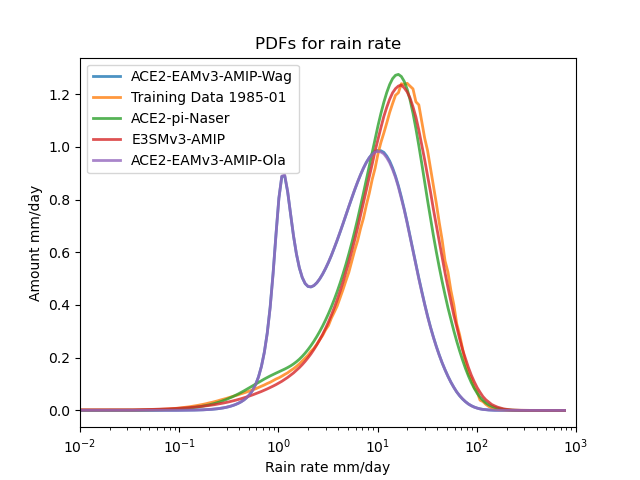
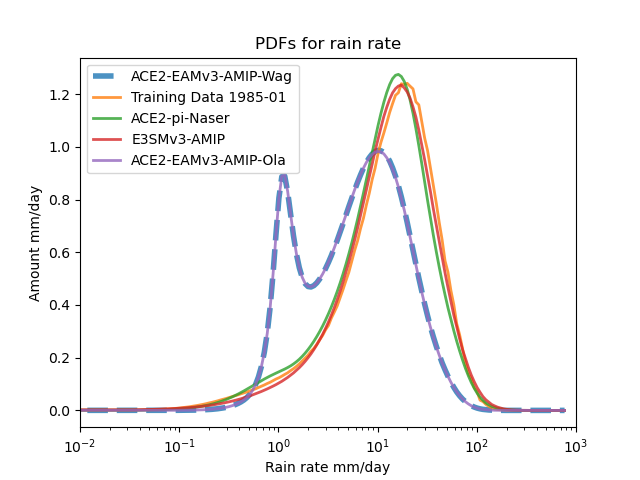
clean up rainrate pdf

diff --git a/rainrate_amount_calculator/plot_rainrate.py b/rainrate_amount_calculator/plot_rainrate.py
@@ -3,6 +3,7 @@ import numpy as np
 import matplotlib.pyplot as plt
 import cartopy.crs as ccrs
 import cartopy.feature as cfeature
+import pdb
 
 def plot_rainrate_pdfs(
     files,          # list of file paths (e.g. [file1, file2, ..., file5])
@@ -132,7 +133,10 @@ def plot_rainrate_pdfs(
     plt.figure()
     for mean, lbl in zip(means, labels):
        # Convert to plain NumPy arrays to avoid x‑y dimension mismatches.
-       plt.plot(bin_centers.values, mean.values, label=lbl, linewidth=2.0,  alpha=0.8 )
+       lw,ls=2.0,'-'
+       if 'Wag' in lbl:
+           lw,ls = 4.0,'--'
+       plt.plot(bin_centers.values, mean.values, label=lbl, linewidth=lw, linestyle=ls, alpha=0.8 )
 
     plt.xscale("log")
     plt.title("PDFs for rain rate")
